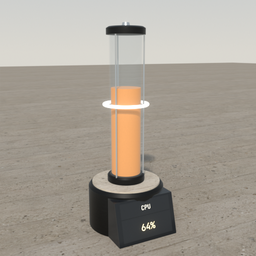
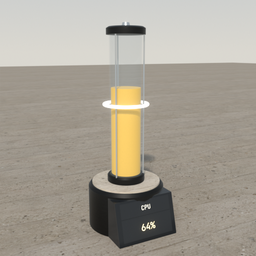
Gauges: a saturated gold fill (about 45 deg on screen), orange warn, red fail
The previous fill overshot to orange (25-34 deg) and sat within 12 deg of
warn. Matched to the concept's gold (42-48 deg), measured per gauge from
3 m views with the fill masked: ok 42.2-46.6 deg (mean 44.9) across the
tube, abacus and voxel cube in Lumen Reach daylight and Array Hall,
saturation 0.60-0.75; warn 20-30 deg (mean about 25.6); fail 0-2.5 deg.
ok and warn stay apart under either light and under a deuteranopia
simulation (CIE76 dE 15-18 between neighbouring levels). Rebuilt on the
bake host; the thumbnails show the on-screen colours.

Changed region(s): [[0.4375, 0.3438, 0.5625, 0.6875]]

diff --git a/objects/machines/kit.py b/objects/machines/kit.py
@@ -75,10 +75,10 @@ PALETTES = {
     'face':   [('idle', (.16, .2, .24), .35), ('running', CYAN, 1.2), ('ok', MINT, 1.1), ('fail', RED, 1.4)],
     'token':  [('queued', IVORY, .3), ('running', CYAN, 1.2), ('ok', MINT, 1.1), ('fail', RED, 1.4)],
     # A large lit fill: tone mapping lifts green on bright warm surfaces, so the colours sit
-    # well to the red of their on-screen hue and the emission stays low. Measured in-engine
-    # (Lumen Reach daylight and Array Hall): ok 26-34 deg amber, warn ~14 deg orange,
-    # fail ~0 deg red.
-    'gauge':  [('ok', (1.0, .182, .075), .08), ('warn', (1.0, .07, .03), .12), ('fail', (.8, .015, .015), .3),
+    # to the red of their on-screen hue and the emission stays low. Measured in-engine
+    # (Lumen Reach daylight and Array Hall): ok a saturated gold at 42-47 deg, warn orange
+    # at 20-30 deg, fail red at 0-3 deg (per gauge, 3 m views).
+    'gauge':  [('ok', (1.0, .31, .06), .12), ('warn', (1.0, .145, .065), .08), ('fail', (.8, .015, .015), .3),
                ('stale', (.35, .33, .3), .05)],
 }
 

diff --git a/objects/machines/scenarios.py b/objects/machines/scenarios.py
@@ -145,7 +145,7 @@ def gauge_states(mid):
 # The fill palette is set for core's ACES tone curve, which lifts green on bright warm
 # surfaces; these Standard-view renders show the fill in the colour core puts on screen
 # (measured in Lumen Reach daylight and Array Hall, linear), not the raw palette.
-GAUGE_DISPLAY = {'fill': {'ok': (.887, .356, .080), 'warn': (.871, .114, .028), 'fail': (.855, .014, .013)}}
+GAUGE_DISPLAY = {'fill': {'ok': (.879, .540, .065), 'warn': (.879, .287, .068), 'fail': (.863, .014, .010)}}
 
 for _g in GAUGES:
     SHEETS[_g] = {'tile': (900, 1150), 'hero': gauge(_g, 64, 52, 'ok', 'CPU'), 'states': gauge_states(_g),
